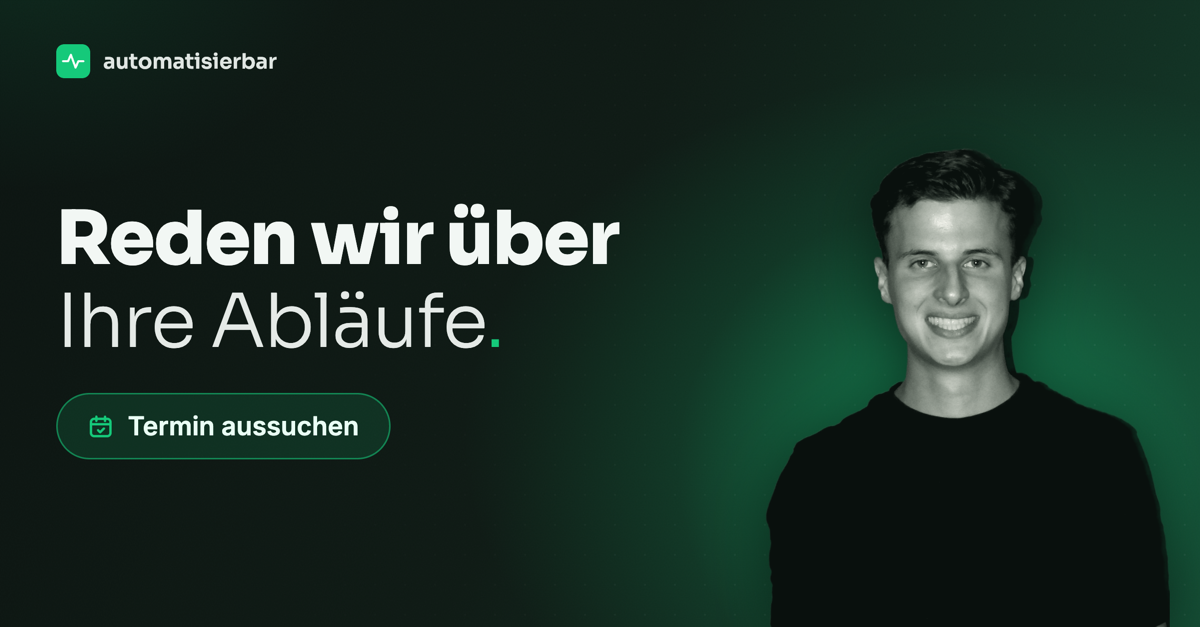
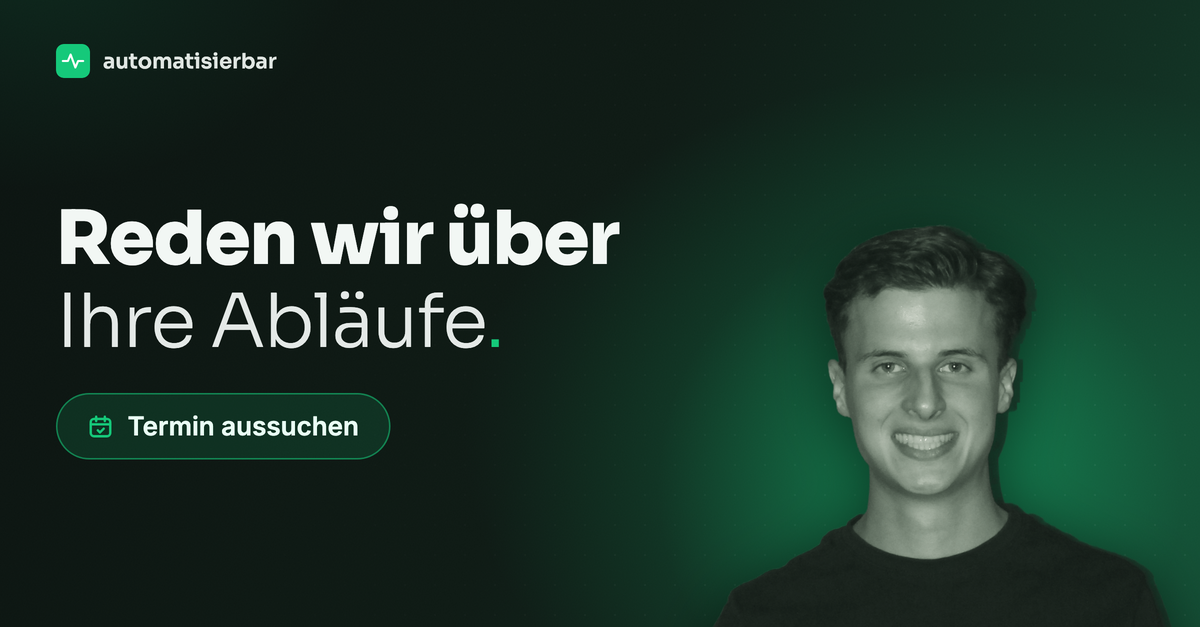
linkedin: Master-Cutouts der 4 Gruender aus den Greenscreen-Originalen (references/linkedin/cutouts/, natural+duotone+Skript, Tommy-Print entfernt) + alle 5 OG-Karten damit neu gebaut (Team-Karte v3 zentriert, nur 'Das sind wir.'), Cache-Bust v3/v2

diff --git a/static/termin-patrik.html b/static/termin-patrik.html
@@ -10,13 +10,13 @@
 <meta property="og:title" content="Termin aussuchen – kurzes Erstgespräch">
 <meta property="og:description" content="Reden wir über Ihre Abläufe. Der Start kostet Sie nichts: Analyse, Prototyp und Testphase gehen auf uns.">
 <meta property="og:url" content="https://cockpit.automatisierbar.ch/static/termin-patrik.html">
-<meta property="og:image" content="https://cockpit.automatisierbar.ch/static/og/termin-patrik.png">
+<meta property="og:image" content="https://cockpit.automatisierbar.ch/static/og/termin-patrik.png?v=2">
 <meta property="og:image:width" content="1200">
 <meta property="og:image:height" content="627">
 <meta name="twitter:card" content="summary_large_image">
 <meta name="twitter:title" content="Termin aussuchen – kurzes Erstgespräch">
 <meta name="twitter:description" content="Reden wir über Ihre Abläufe. Der Start kostet Sie nichts: Analyse, Prototyp und Testphase gehen auf uns.">
-<meta name="twitter:image" content="https://cockpit.automatisierbar.ch/static/og/termin-patrik.png">
+<meta name="twitter:image" content="https://cockpit.automatisierbar.ch/static/og/termin-patrik.png?v=2">
 <meta http-equiv="refresh" content="0; url=https://cockpit.automatisierbar.ch/book">
 <script>window.location.replace("https://cockpit.automatisierbar.ch/book");</script>
 </head>

diff --git a/static/termin-nico.html b/static/termin-nico.html
@@ -10,13 +10,13 @@
 <meta property="og:title" content="Termin aussuchen – kurzes Erstgespräch">
 <meta property="og:description" content="Reden wir über Ihre Abläufe. Der Start kostet Sie nichts: Analyse, Prototyp und Testphase gehen auf uns.">
 <meta property="og:url" content="https://cockpit.automatisierbar.ch/static/termin-nico.html">
-<meta property="og:image" content="https://cockpit.automatisierbar.ch/static/og/termin-nico.png">
+<meta property="og:image" content="https://cockpit.automatisierbar.ch/static/og/termin-nico.png?v=2">
 <meta property="og:image:width" content="1200">
 <meta property="og:image:height" content="627">
 <meta name="twitter:card" content="summary_large_image">
 <meta name="twitter:title" content="Termin aussuchen – kurzes Erstgespräch">
 <meta name="twitter:description" content="Reden wir über Ihre Abläufe. Der Start kostet Sie nichts: Analyse, Prototyp und Testphase gehen auf uns.">
-<meta name="twitter:image" content="https://cockpit.automatisierbar.ch/static/og/termin-nico.png">
+<meta name="twitter:image" content="https://cockpit.automatisierbar.ch/static/og/termin-nico.png?v=2">
 <meta http-equiv="refresh" content="0; url=https://cockpit.automatisierbar.ch/book">
 <script>window.location.replace("https://cockpit.automatisierbar.ch/book");</script>
 </head>

diff --git a/static/termin-tej.html b/static/termin-tej.html
@@ -10,13 +10,13 @@
 <meta property="og:title" content="Termin aussuchen – kurzes Erstgespräch">
 <meta property="og:description" content="Reden wir über Ihre Abläufe. Der Start kostet Sie nichts: Analyse, Prototyp und Testphase gehen auf uns.">
 <meta property="og:url" content="https://cockpit.automatisierbar.ch/static/termin-tej.html">
-<meta property="og:image" content="https://cockpit.automatisierbar.ch/static/og/termin-tej.png">
+<meta property="og:image" content="https://cockpit.automatisierbar.ch/static/og/termin-tej.png?v=2">
 <meta property="og:image:width" content="1200">
 <meta property="og:image:height" content="627">
 <meta name="twitter:card" content="summary_large_image">
 <meta name="twitter:title" content="Termin aussuchen – kurzes Erstgespräch">
 <meta name="twitter:description" content="Reden wir über Ihre Abläufe. Der Start kostet Sie nichts: Analyse, Prototyp und Testphase gehen auf uns.">
-<meta name="twitter:image" content="https://cockpit.automatisierbar.ch/static/og/termin-tej.png">
+<meta name="twitter:image" content="https://cockpit.automatisierbar.ch/static/og/termin-tej.png?v=2">
 <meta http-equiv="refresh" content="0; url=https://cockpit.automatisierbar.ch/book">
 <script>window.location.replace("https://cockpit.automatisierbar.ch/book");</script>
 </head>

diff --git a/static/book.html b/static/book.html
@@ -13,13 +13,13 @@
 <meta property="og:title" content="Termin aussuchen – kurzes Erstgespräch">
 <meta property="og:description" content="Reden wir über Ihre Abläufe. Der Start kostet Sie nichts: Analyse, Prototyp und Testphase gehen auf uns.">
 <meta property="og:url" content="https://cockpit.automatisierbar.ch/book">
-<meta property="og:image" content="https://cockpit.automatisierbar.ch/static/og/book-card.png?v=2">
+<meta property="og:image" content="https://cockpit.automatisierbar.ch/static/og/book-card.png?v=3">
 <meta property="og:image:width" content="1200">
 <meta property="og:image:height" content="627">
 <meta name="twitter:card" content="summary_large_image">
 <meta name="twitter:title" content="Termin aussuchen – kurzes Erstgespräch">
 <meta name="twitter:description" content="Reden wir über Ihre Abläufe. Der Start kostet Sie nichts: Analyse, Prototyp und Testphase gehen auf uns.">
-<meta name="twitter:image" content="https://cockpit.automatisierbar.ch/static/og/book-card.png?v=2">
+<meta name="twitter:image" content="https://cockpit.automatisierbar.ch/static/og/book-card.png?v=3">
 <link rel="icon" href="/static/automatisierbar-logo.svg">
 <link rel="apple-touch-icon" href="/static/automatisierbar-logo.svg">
 <link rel="preconnect" href="https://fonts.googleapis.com">

diff --git a/static/angebot.html b/static/angebot.html
@@ -10,13 +10,13 @@
 <meta property="og:title" content="Das sind wir">
 <meta property="og:description" content="Lernen Sie uns und unser Angebot kennen: wie wir arbeiten und was wir für Ihren Betrieb bauen.">
 <meta property="og:url" content="https://cockpit.automatisierbar.ch/static/angebot.html">
-<meta property="og:image" content="https://cockpit.automatisierbar.ch/static/og/angebot-card.png?v=2">
+<meta property="og:image" content="https://cockpit.automatisierbar.ch/static/og/angebot-card.png?v=3">
 <meta property="og:image:width" content="1200">
 <meta property="og:image:height" content="627">
 <meta name="twitter:card" content="summary_large_image">
 <meta name="twitter:title" content="Das sind wir">
 <meta name="twitter:description" content="Lernen Sie uns und unser Angebot kennen: wie wir arbeiten und was wir für Ihren Betrieb bauen.">
-<meta name="twitter:image" content="https://cockpit.automatisierbar.ch/static/og/angebot-card.png?v=2">
+<meta name="twitter:image" content="https://cockpit.automatisierbar.ch/static/og/angebot-card.png?v=3">
 <meta http-equiv="refresh" content="0; url=https://automatisierbar.ch">
 <script>window.location.replace("https://automatisierbar.ch");</script>
 </head>

diff --git a/references/linkedin/cutouts/make_cutouts.py b/references/linkedin/cutouts/make_cutouts.py
@@ -1,0 +1,104 @@
+#!/usr/bin/env python3
+"""Master-Cutouts der 4 Gruender aus den Greenscreen-Originalen.
+
+Quelle: ~/Desktop/Automatisierbar/automatisierbar bilder/IMG_{3256,3258,3263,3264}.JPG
+Output: <name>-natural.png (Cutout, echte Farben) + <name>-duotone.png (Banner-Grade)
+Regel: Fuer ALLE kuenftigen Banner/Karten/Posts DIESE Master verwenden, nie neu keyen.
+Run: .venv/bin/python3 references/linkedin/cutouts/make_cutouts.py
+"""
+import numpy as np
+from PIL import Image, ImageFilter
+import os
+
+SRC = os.path.expanduser("~/Desktop/Automatisierbar/automatisierbar bilder/")
+OUT = os.path.dirname(os.path.abspath(__file__))
+
+# safe crop inside the greenscreen (x0,y0,x1,y1) on the 90deg-CCW-rotated frame (2848x4272)
+CROPS = {
+  "tej":     ("IMG_3256.JPG", (0,   700, 2400, 4272)),
+  "nico":    ("IMG_3258.JPG", (0,   640, 2848, 4272)),
+  "patrik":  ("IMG_3263.JPG", (0,   580, 2780, 4272)),
+  "joaquin": ("IMG_3264.JPG", (60,  900, 2820, 4272)),
+}
+
+def bottom_connected(solid):
+    small = Image.fromarray((solid*255).astype(np.uint8)).resize(
+        (solid.shape[1]//8, solid.shape[0]//8), Image.NEAREST)
+    m = np.array(small) > 0
+    seed = np.zeros_like(m); seed[-1,:] = m[-1,:]
+    prev = 0
+    while True:
+        grown = seed.copy()
+        grown[:-1,:] |= seed[1:,:]; grown[1:,:] |= seed[:-1,:]
+        grown[:,:-1] |= seed[:,1:]; grown[:,1:] |= seed[:,:-1]
+        seed = grown & m
+        s = seed.sum()
+        if s == prev: break
+        prev = s
+    up = Image.fromarray((seed*255).astype(np.uint8)).resize(
+        (solid.shape[1], solid.shape[0]), Image.NEAREST)
+    return np.array(up.filter(ImageFilter.MaxFilter(31))) > 0
+
+def duotone(rgb):
+    L = (0.299*rgb[...,0] + 0.587*rgb[...,1] + 0.114*rgb[...,2]) / 255
+    L = np.clip(L**1.06, 0, 1)
+    shadow = np.array([9,16,13], float); highlight = np.array([242,243,236], float)
+    out = shadow[None,None,:] + (highlight-shadow)[None,None,:] * L[...,None]
+    out[...,1] += 10*np.sin(np.pi*L)
+    return np.clip(out, 0, 255)
+
+for name,(f,(x0,y0,x1,y1)) in CROPS.items():
+    im = Image.open(SRC+f).transpose(Image.ROTATE_90).crop((x0,y0,x1,y1))
+    a = np.asarray(im).astype(float)
+    r,g,b = a[...,0], a[...,1], a[...,2]
+    d = g - np.maximum(r,b)
+    t0,t1 = 8.0, 45.0
+    alpha = np.clip((t1 - d)/(t1 - t0), 0, 1) * 255
+    g2 = np.minimum(g, np.maximum(r,b))
+    rgb = np.stack([r,g2,b], axis=-1)
+    # keep only the figure (connected to bottom), zero residual haze
+    keep = bottom_connected(alpha > 160)
+    alpha[~keep] = 0
+    alpha[alpha < 12] = 0
+    # smooth ramp stays (NO hard floor, NO erosion) -> natural edges; light AA blur
+    alpha = np.array(Image.fromarray(alpha.astype(np.uint8)).filter(ImageFilter.GaussianBlur(1.2)), float)
+    alpha[~keep] = 0
+    ys,xs = np.where(alpha > 10)
+    yA = max(0, ys.min()-30); xA = max(0, xs.min()-30); xB = min(alpha.shape[1]-1, xs.max()+30)
+    nat = np.dstack([rgb, alpha]).astype(np.uint8)[yA:, xA:xB+1]
+    duo = np.dstack([duotone(rgb), alpha]).astype(np.uint8)[yA:, xA:xB+1]
+    for arr, suffix in [(nat,"natural"), (duo,"duotone")]:
+        img = Image.fromarray(arr)
+        if img.height > 2400:
+            sc = 2400/img.height
+            img = img.resize((int(img.width*sc), 2400), Image.LANCZOS)
+        img.save(os.path.join(OUT, f"{name}-{suffix}.png"))
+    print(name, "->", img.size)
+
+# --- Tej: Tommy-Hilfiger-Print entfernen (Marken-Verbot auf Karten) ---
+def remove_print(path):
+    im = Image.open(path)
+    a = np.array(im)
+    h,w = a.shape[:2]
+    lum = a[...,:3].astype(float).mean(axis=2)
+    m = np.zeros((h,w), bool)
+    # Print sitzt auf der Brust: mittleres Drittel, ~36-56% der Hoehe (NICHT tiefer — dort sind die Unterarme)
+    m[int(h*0.36):int(h*0.58), int(w*0.14):int(w*0.86)] = True
+    pm = m & (a[...,3]>150) & (lum>36)
+    if pm.sum() == 0: return
+    pm = np.array(Image.fromarray((pm*255).astype(np.uint8)).filter(ImageFilter.MaxFilter(17))) > 0
+    shirt = m & (a[...,3]>150) & (lum<=35) & ~pm
+    med = np.median(a[shirt][:,:3], axis=0)
+    rng = np.random.default_rng(7)
+    a[pm,:3] = np.clip(med + rng.normal(0,3.5,(pm.sum(),3)), 0, 255).astype(np.uint8)
+    im2 = Image.fromarray(a)
+    ys,xs = np.where(pm)
+    y0,y1,x0,x1 = ys.min(),ys.max(),xs.min(),xs.max()
+    box = im2.crop((x0-10,y0-10,x1+10,y1+10)).filter(ImageFilter.GaussianBlur(3))
+    mask = Image.fromarray((pm*255).astype(np.uint8)).filter(ImageFilter.GaussianBlur(2)).crop((x0-10,y0-10,x1+10,y1+10))
+    im2.paste(box, (x0-10,y0-10), mask)
+    im2.save(path)
+    print("print removed:", path, pm.sum(), "px")
+
+for s in ["natural","duotone"]:
+    remove_print(os.path.join(OUT, f"tej-{s}.png"))
